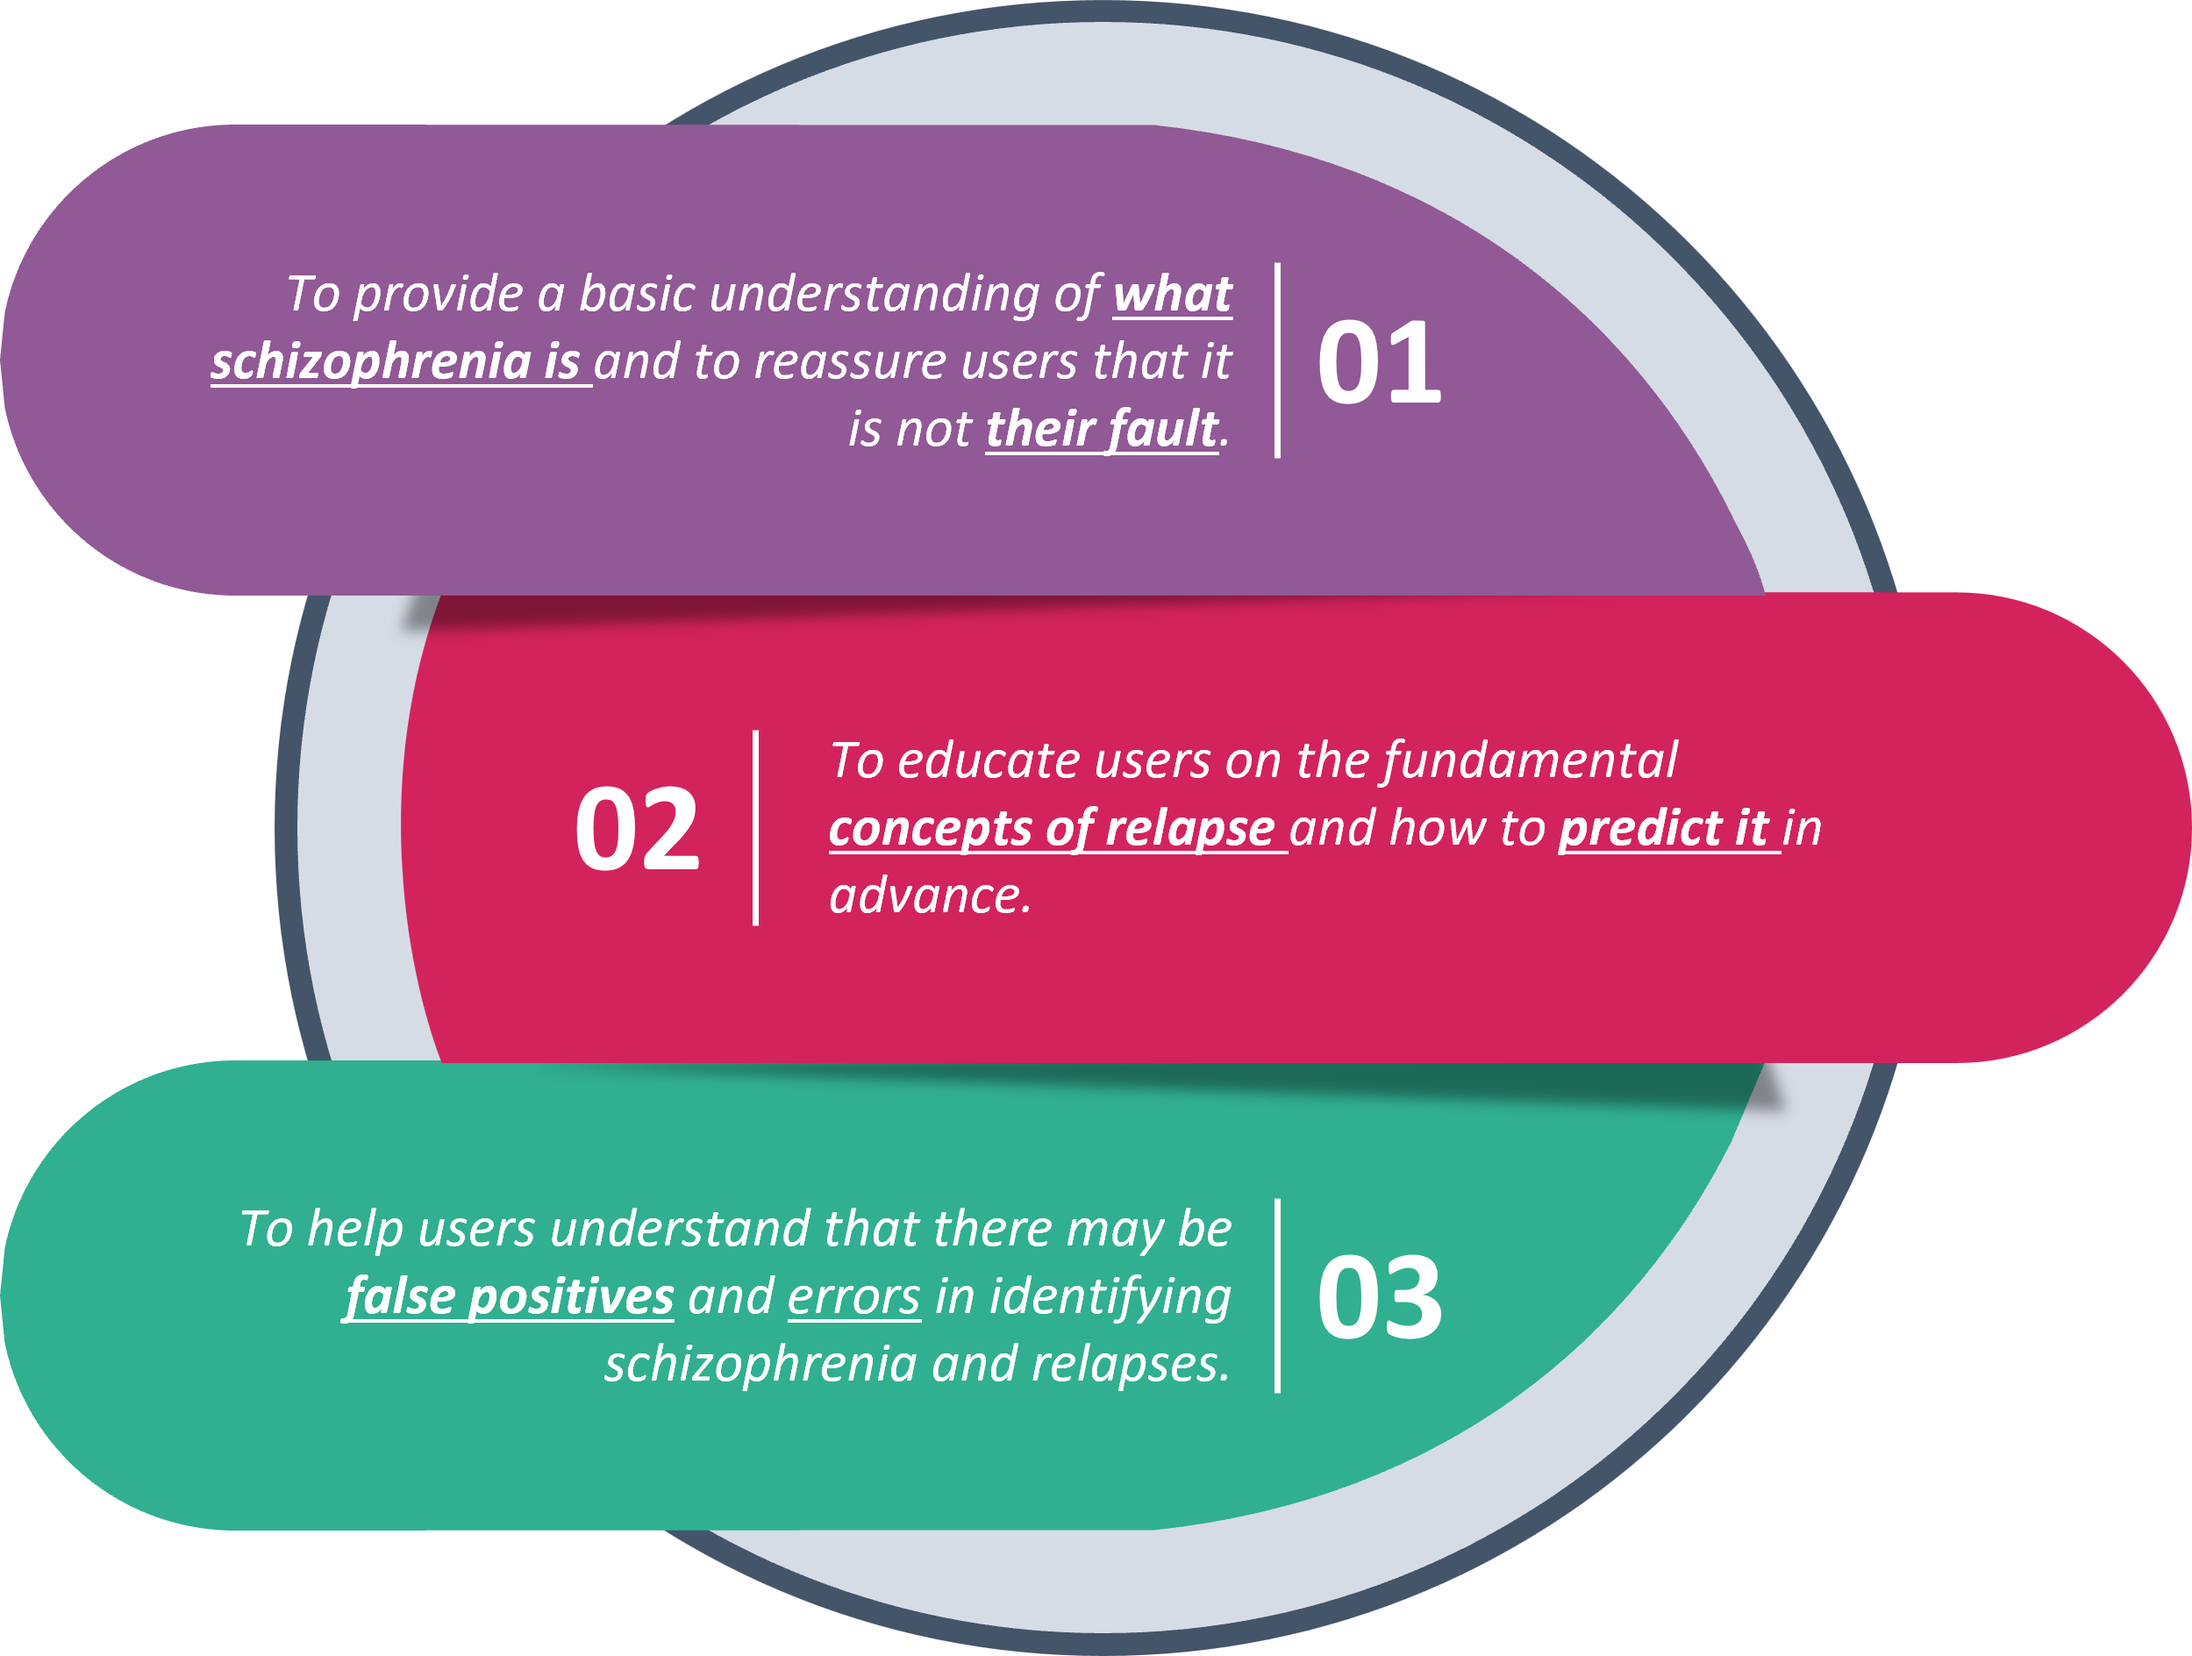
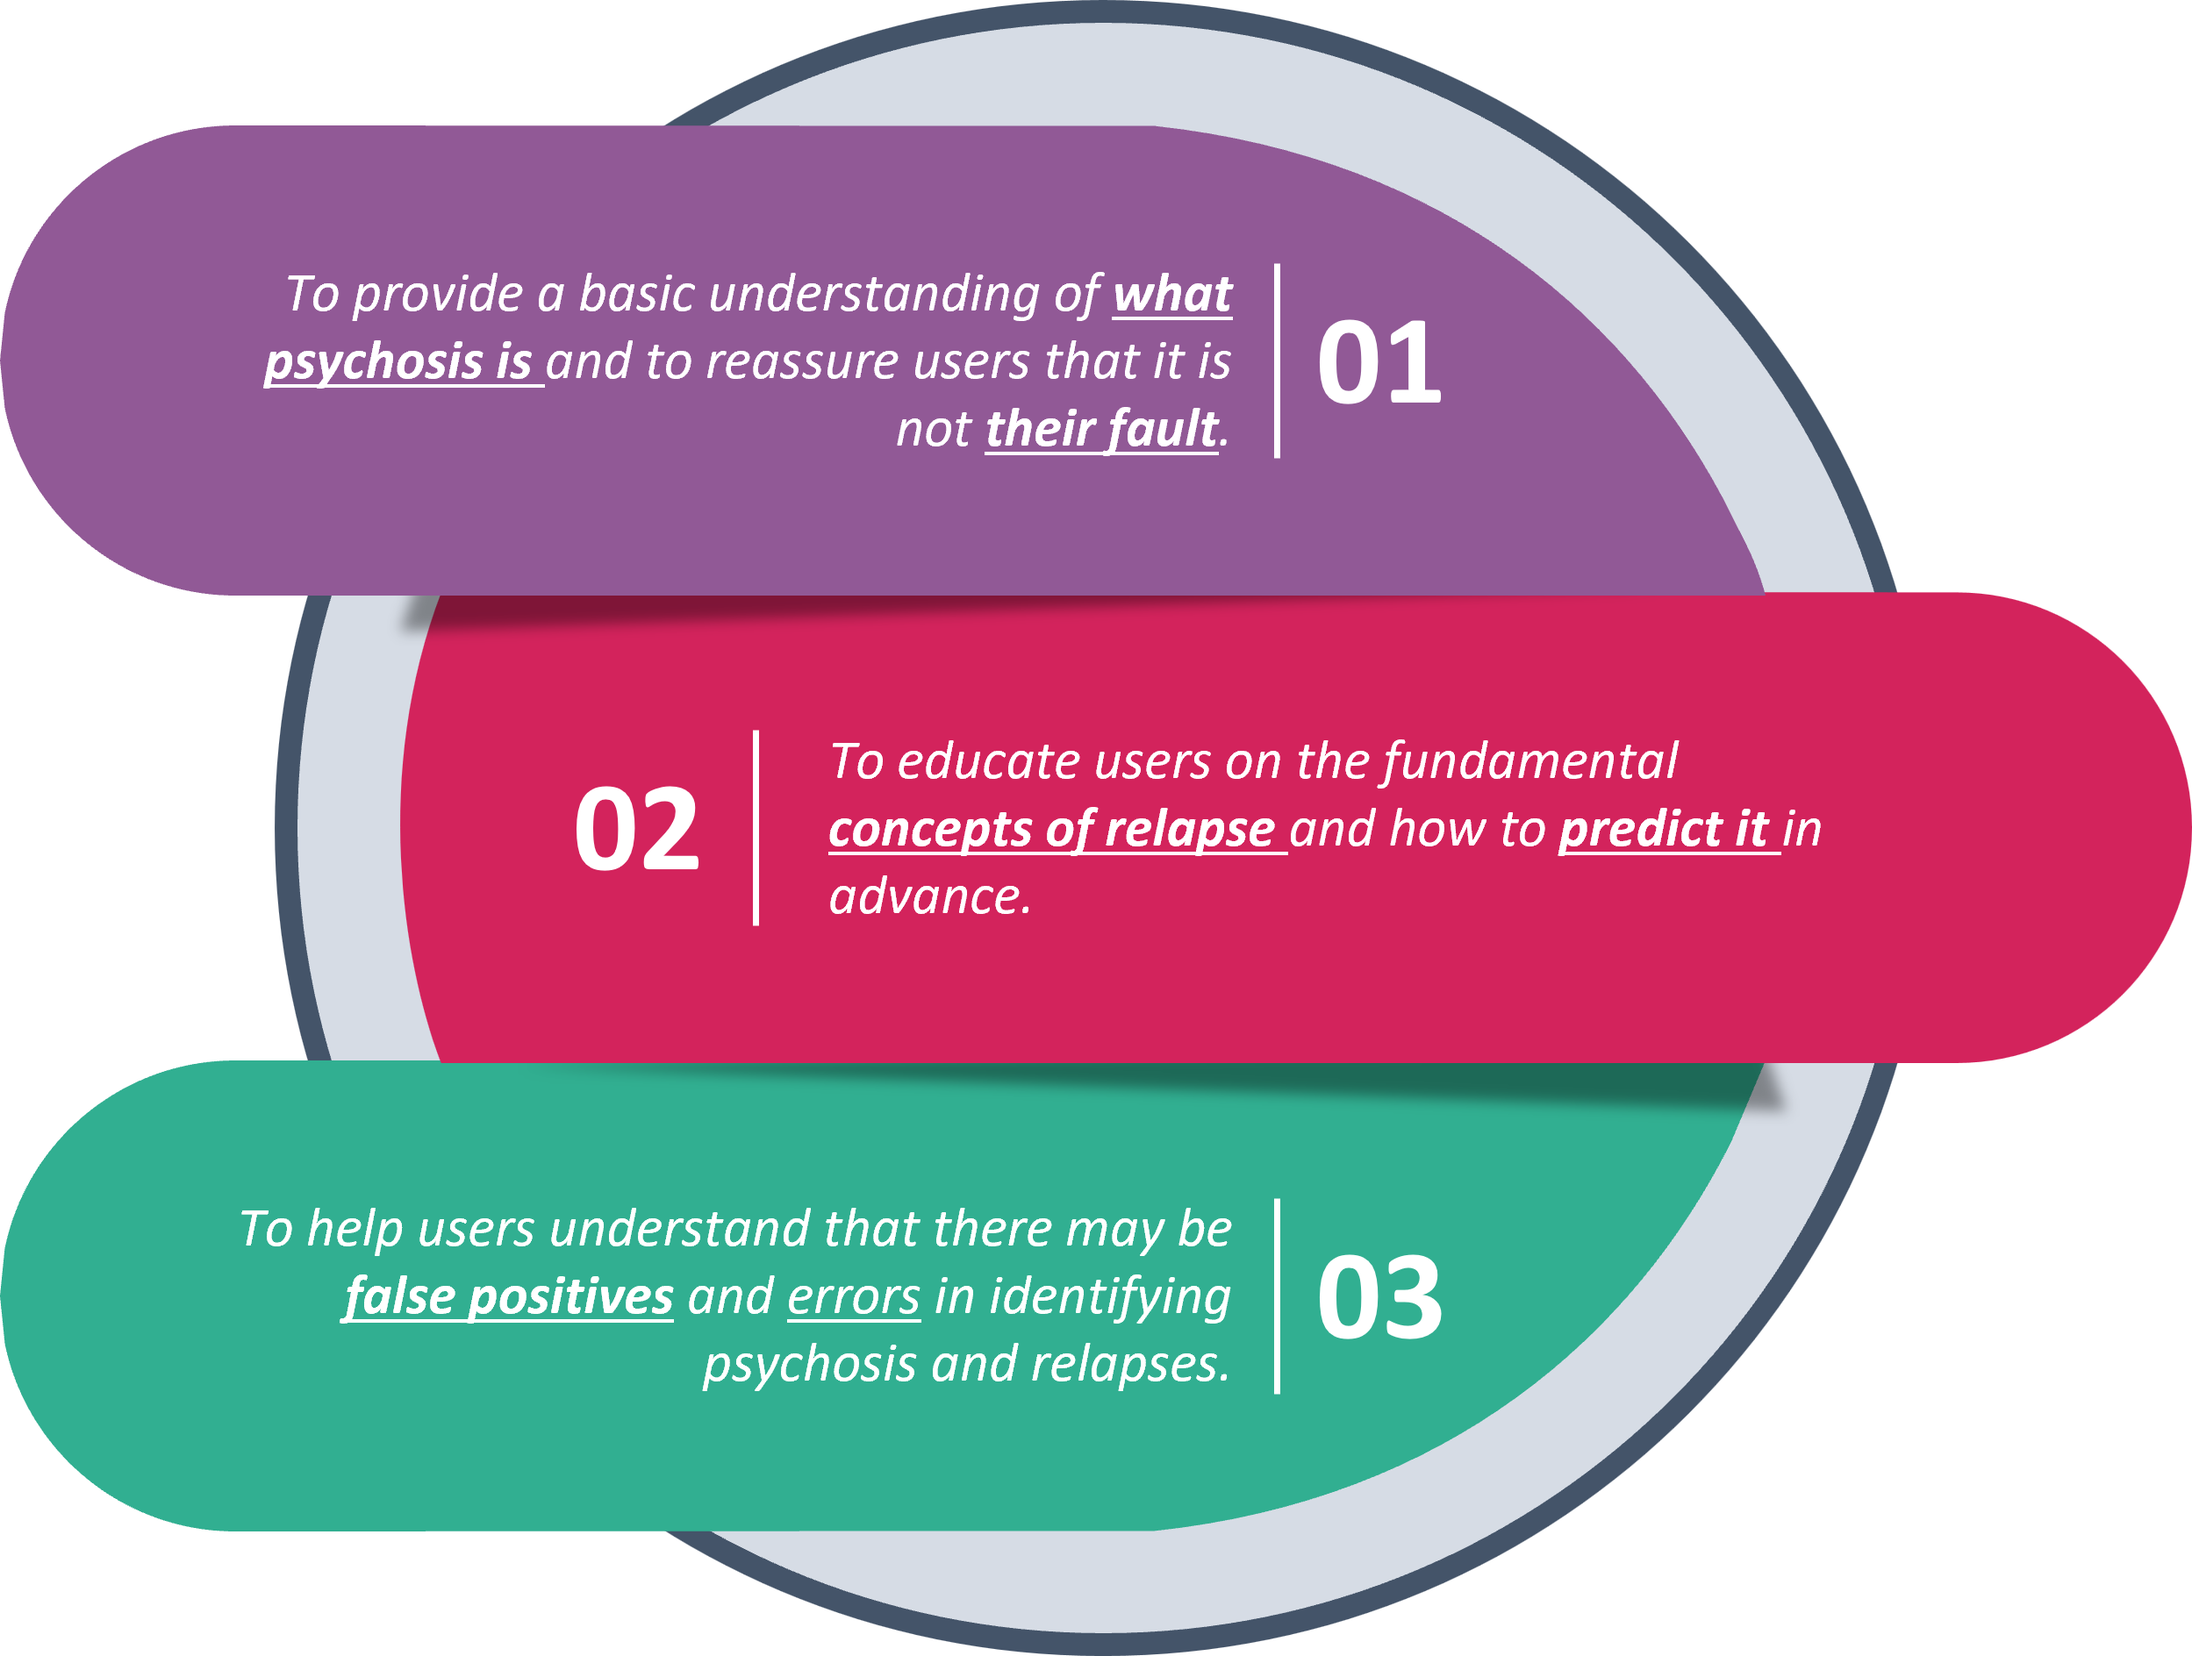
psychosis

diff --git a/webapp/templates/schizophrenia-negative-symptoms.html b/webapp/templates/schizophrenia-negative-symptoms.html
@@ -7,7 +7,7 @@
 {% block content %}
 <div class="container"> 
 	<div class="card">
-	  <div class="card-header"> <h1>{% trans "Negative Symptoms of Schizophrenia" %}</h1></div>
+	  <div class="card-header"> <h1>{% trans "Negative Symptoms of Psychosis" %}</h1></div>
 	  <div class="card-body">
 	  	<div class="text-center mb-2">
 
@@ -22,7 +22,7 @@
 	  	</div>
 
 	  	<h6>
-	  		{% trans "Negative symptoms of schizophrenia refer to the absence or reduction of normal behaviors and functions that are usually present in healthy individuals. These symptoms reflect a loss of abilities and can significantly impair a person's daily functioning and quality of life. Unlike positive symptoms, which add abnormal experiences or behaviors, negative symptoms take away normal capabilities and emotional responses." %}
+	  		{% trans "Negative symptoms of psychosis refer to the absence or reduction of normal behaviors and functions that are usually present in healthy individuals. These symptoms reflect a loss of abilities and can significantly impair a person's daily functioning and quality of life. Unlike positive symptoms, which add abnormal experiences or behaviors, negative symptoms take away normal capabilities and emotional responses." %}
 	  	</h6>
 	  	<p>
 	    	<ol>
@@ -36,7 +36,7 @@
 	    	<div class="panel panel-understanding-check">
 					<form class="multipleChoice">
 						<div class="form-group">
-							<label for="radio"><h4 class="bg-info">{% trans "Qeustion: Which of the following best describes the negative symptom of schizophrenia known as avolition?" %}</h4></label>
+							<label for="radio"><h4 class="bg-info">{% trans "Qeustion: Which of the following best describes the negative symptom of psychosis known as avolition?" %}</h4></label>
 							<div class="radio">
 								<label>
 									<input type="radio" data-question-number="1" name="question-1" id="bsr-radios-1" data-alert-type="alert-success" data-comment="{{ correct_msg }}" value="radio97468235240">

diff --git a/webapp/templates/schizophrenia.html b/webapp/templates/schizophrenia.html
@@ -7,7 +7,7 @@
 {% block content %}
 <div class="container"> 
 	<div class="card">
-	  <div class="card-header"> <h1>{% trans "Schizophrenia" %}</h1></div>
+	  <div class="card-header"> <h1>{% trans "Psychosis" %}</h1></div>
 	  <div class="card-body">
 	  	<div class="text-center mb-2">
 
@@ -23,13 +23,13 @@
 	  	</div>
 
 	  	<h6>
-	  		{% trans "Schizophrenia is a chronic and severe mental disorder that affects how a person thinks, feels, and behaves. When someone has schizophrenia it can seem like they have lost touch with reality, which can be distressing for them and for those around them." %}
+	  		{% trans "Psychosis is a severe mental disorder that affects how a person thinks, feels, and behaves. When someone has a psychosis it can seem like they have lost touch with reality, which can be distressing for them and for those around them." %}
 	  	</h6>
 	    <div class="mt-5">
 	    	<div class="panel panel-understanding-check">
 					<form class="multipleChoice">
 						<div class="form-group">
-							<label for="radio"><h4 class="bg-info">{% trans "Question: Which of the following best characterizes schizophrenia?" %}</h4></label>
+							<label for="radio"><h4 class="bg-info">{% trans "Question: Which of the following best characterizes psychosis?" %}</h4></label>
 							<div class="radio">
 								<label>
 									<input type="radio" data-question-number="1" name="question-1" id="bsr-radios-1" data-alert-type="alert-danger" data-comment="{{ incorrect_msg }}" value="radio97468235240">
@@ -39,7 +39,7 @@
 							<div class="radio">
 								<label>
 									<input type="radio" data-question-number="1" name="question-1" id="bsr-radios-2" data-alert-type="alert-success" data-comment="{{ correct_msg }}" value="radio97468235240">
-									{% trans "B) A chronic condition affecting thinking, feeling, and behavior" %}
+									{% trans "B) A condition affecting thinking, feeling, and behavior" %}
 								</label>
 							</div>
 							

diff --git a/webapp/templates/schizophrenia-cognitive-symptoms.html b/webapp/templates/schizophrenia-cognitive-symptoms.html
@@ -7,7 +7,7 @@
 {% block content %}
 <div class="container"> 
 	<div class="card">
-	  <div class="card-header"> <h1>{% trans "Cognitive Symptoms of Schizophrenia" %}</h1></div>
+	  <div class="card-header"> <h1>{% trans "Cognitive Symptoms of Psychosis" %}</h1></div>
 	  <div class="card-body">
 	  	<div class="text-center mb-2">
 
@@ -22,7 +22,7 @@
 	  	</div>
 
 	  	<h6>
-	  		{% trans "Cognitive symptoms of schizophrenia refer to problems with the mental processes involved in gaining knowledge and comprehension. These symptoms affect a person's ability to think clearly, remember, and organize their thoughts. Cognitive symptoms can be subtle or severe and often significantly impact the daily functioning of individuals with schizophrenia." %}
+	  		{% trans "Cognitive symptoms of psychosis refer to problems with the mental processes involved in gaining knowledge and comprehension. These symptoms affect a person's ability to think clearly, remember, and organize their thoughts. Cognitive symptoms can be subtle or severe and often significantly impact the daily functioning of individuals with psychosis." %}
 	  	</h6>
 	  	<p>
 	    	<ol>
@@ -35,7 +35,7 @@
 	    	<div class="panel panel-understanding-check">
 					<form class="multipleChoice">
 						<div class="form-group">
-							<label for="radio"><h4 class="bg-info">{% trans "Qeustion: Which of the following cognitive symptoms is NOT commonly associated with schizophrenia?" %}</h4></label>
+							<label for="radio"><h4 class="bg-info">{% trans "Qeustion: Which of the following cognitive symptoms is NOT commonly associated with psychosis?" %}</h4></label>
 							<div class="radio">
 								<label>
 									<input type="radio" data-question-number="1" name="question-1" id="bsr-radios-1" data-alert-type="alert-danger" data-comment="{{ incorrect_msg }}" value="radio97468235240">

diff --git a/webapp/templates/schizophrenia-symptoms.html b/webapp/templates/schizophrenia-symptoms.html
@@ -7,7 +7,7 @@
 {% block content %}
 <div class="container"> 
 	<div class="card">
-	  <div class="card-header"> <h1>{% trans "Symptoms of Schizophrenia" %}</h1></div>
+	  <div class="card-header"> <h1>{% trans "Symptoms of Psychosis" %}</h1></div>
 	  <div class="card-body">
 	  	<div class="text-center mb-2">
 
@@ -22,7 +22,7 @@
 	  	</div>
 
 	  	<h6>
-	  		{% trans "Symptoms of schizophrenia can be broadly categorized into three groups: positive symptoms, negative symptoms, and cognitive symptoms." %}
+	  		{% trans "Symptoms of psychosis can be broadly categorized into three groups: positive symptoms, negative symptoms, and cognitive symptoms." %}
 	  	</h6>
 	  	<p>
 	    	<ol>
@@ -35,7 +35,7 @@
 	    	<div class="panel panel-understanding-check">
 					<form class="multipleChoice">
 						<div class="form-group">
-							<label for="radio"><h4 class="bg-info">{% trans "Question: Which categorization distinguishes the symptoms of schizophrenia based on their characteristics?" %}</h4></label>
+							<label for="radio"><h4 class="bg-info">{% trans "Question: Which categorization distinguishes the symptoms of psychosis based on their characteristics?" %}</h4></label>
 							<div class="radio">
 								<label>
 									<input type="radio" data-question-number="1" name="question-1" id="bsr-radios-1" data-alert-type="alert-danger" data-comment="{{ incorrect_msg }}" value="radio97468235240">

diff --git a/webapp/templates/schizophrenia-positive-symptoms.html b/webapp/templates/schizophrenia-positive-symptoms.html
@@ -7,7 +7,7 @@
 {% block content %}
 <div class="container"> 
 	<div class="card">
-	  <div class="card-header"> <h1>{% trans "Positive Symptoms of Schizophrenia" %}</h1></div>
+	  <div class="card-header"> <h1>{% trans "Positive Symptoms of Psychosis" %}</h1></div>
 	  <div class="card-body">
 	  	<div class="text-center mb-2">
 
@@ -36,7 +36,7 @@
 	    	<div class="panel panel-understanding-check">
 					<form class="multipleChoice">
 						<div class="form-group">
-							<label for="radio"><h4 class="bg-info">{% trans "Qeustion: Which of the following statements correctly describes the positive symptoms of schizophrenia?" %}</h4></label>
+							<label for="radio"><h4 class="bg-info">{% trans "Qeustion: Which of the following statements correctly describes the positive symptoms of psychosis?" %}</h4></label>
 							<div class="radio">
 								<label>
 									<input type="radio" data-question-number="1" name="question-1" id="bsr-radios-1" data-alert-type="alert-success" data-comment="{{ correct_msg }}" value="radio97468235240">

diff --git a/webapp/templates/home.html b/webapp/templates/home.html
@@ -25,9 +25,9 @@
 	    <h2 class="card-text mt-5">{% trans "This brief course has three primary goals:" %}</h2>
 	    <p>
 	    	<ol>
-				  <li>{% trans "Introduce the fundamental concepts of schizophrenia, emphasizing that it is a naturally occurring illness and not the fault of the individual." %}</li>
+				  <li>{% trans "Introduce the fundamental concepts of psychosis, emphasizing that it is a naturally occurring illness and not the fault of the individual." %}</li>
 				  <li>{% trans "Educate participants about the concept of relapses and how to predict them early." %}</li>
-				  <li>{% trans "Help participants understand that there can be false positives and errors in diagnosing schizophrenia and identifying relapses." %}</li>
+				  <li>{% trans "Help participants understand that there can be false positives and errors in diagnosing psychosis and identifying relapses." %}</li>
 				</ol>
 	    </p>
 

diff --git a/webapp/templates/schizophrenia-end.html b/webapp/templates/schizophrenia-end.html
@@ -7,7 +7,7 @@
 {% block content %}
 <div class="container"> 
 	<div class="card">
-	  <div class="card-header"> <h1>{% trans "Schizophrenia" %}</h1></div>
+	  <div class="card-header"> <h1>{% trans "Psychosis" %}</h1></div>
 	  <div class="card-body">
 	  	<div class="text-center mb-2">
 
